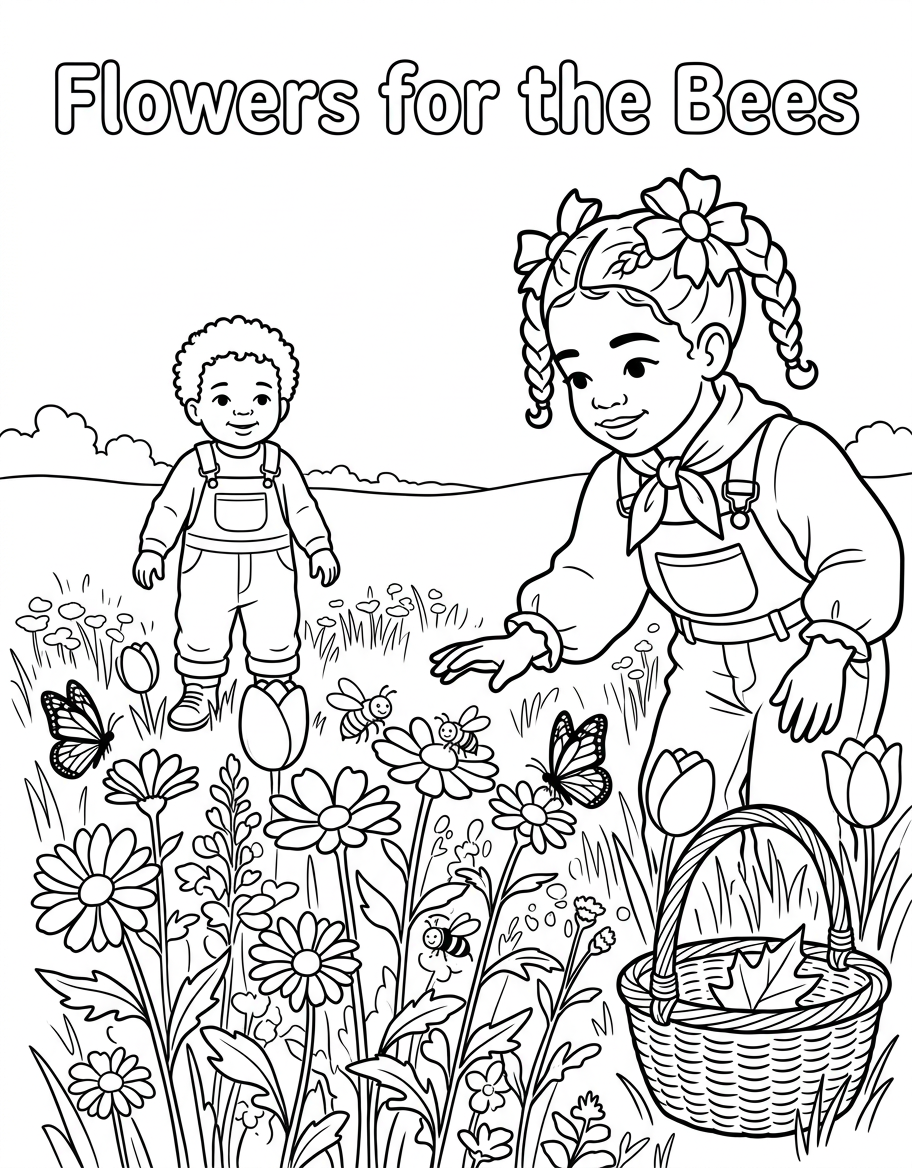
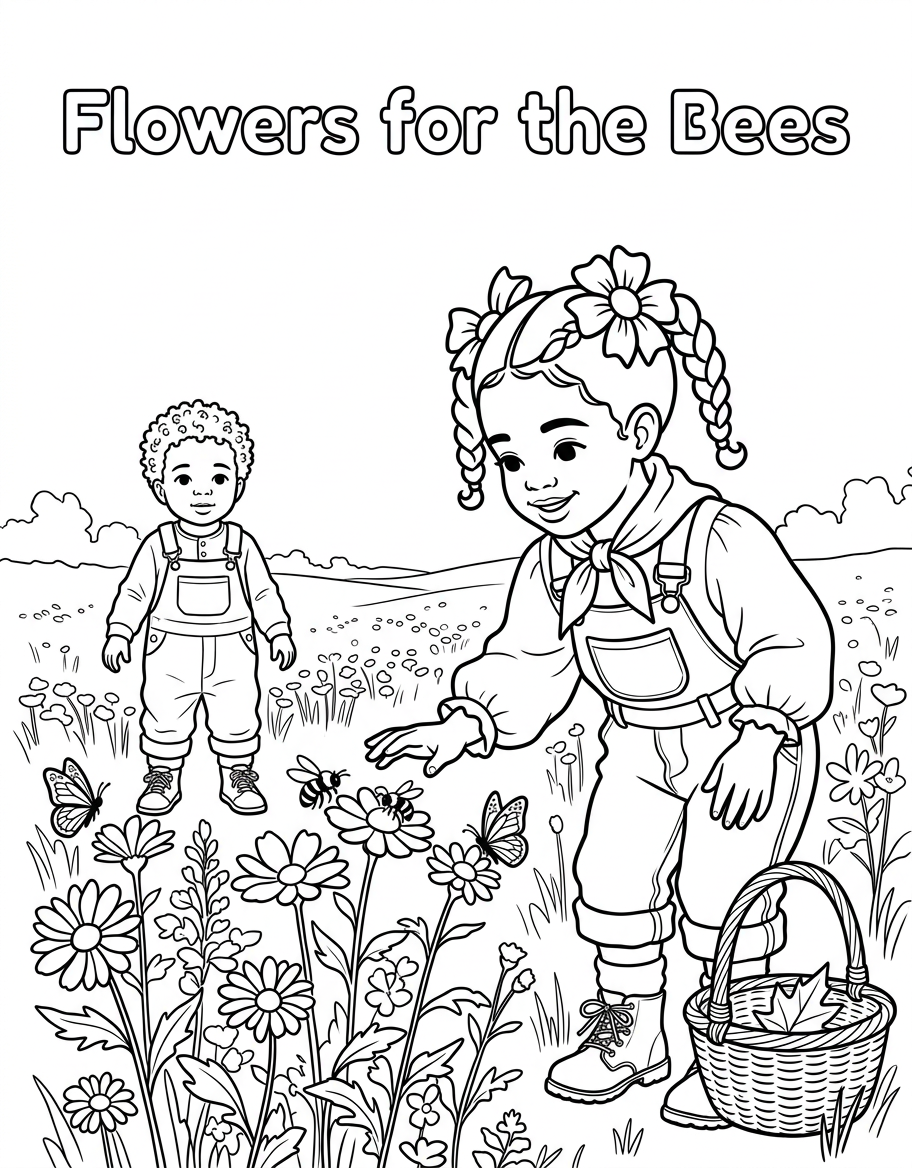
PRODUCT LINE COMPLETE: coloring 13/13 + wall art 6/6

diff --git a/docs/product-line.md b/docs/product-line.md
@@ -16,14 +16,14 @@ Each page converts its source spread's composition (spread attached as reference
 | `page-02-our-first-treasure.png` | Our First Treasure | Unit 2 | ✅ approved (was style sample) |
 | `page-03-acorns-for-the-squirrel.png` | Acorns for the Squirrel | Unit 3 | ✅ approved |
 | `page-04-feather-for-the-bird.png` | A Feather for the Bird | Unit 5 | ✅ approved |
-| `page-05-flowers-for-the-bees.png` | Flowers for the Bees | Unit 6 | ❌ regen: filled-black butterfly |
+| `page-05-flowers-for-the-bees.png` | Flowers for the Bees | Unit 6 | ✅ approved |
 | `page-06-care-for-the-lamb.png` | Care for the Lamb | Unit 8 | ✅ approved |
 | `page-07-resting-under-the-oak.png` | Resting Under the Oak | Unit 9 | ✅ approved |
 | `page-08-whoosh.png` | Whoosh! | Unit 11 | ✅ approved |
 | `page-09-bridge-for-the-ants.png` | A Bridge for the Ants | Unit 12 | ✅ approved |
 | `page-10-five-blessings-shared.png` | Five Blessings Shared | Unit 13 | ✅ approved |
-| `page-11-coming-home.png` | Coming Home | Unit 14 | ⬜ needs U14 first |
-| `page-12-hearts-were-full.png` | Hearts Were Full | Unit 15 | ⬜ |
+| `page-11-coming-home.png` | Coming Home | Unit 14 | ✅ approved |
+| `page-12-hearts-were-full.png` | Hearts Were Full | Unit 15 | ✅ approved |
 
 Dropped as quiet/transitional: Units 4, 7, 10.
 
@@ -34,9 +34,9 @@ Verse text verbatim + heart + citation, upper-right open space.
 
 | # | File | Subject | Status |
 |---|---|---|---|
-| 1 | `wall-art/print-01-amara.png` | Amara, pumpkin basket portrait | ⬜ |
-| 2 | `wall-art/print-02-micah.png` | Micah, pumpkin basket portrait | ⬜ |
-| 3 | `wall-art/print-03-siblings-meadow.png` | Amara & Micah, meadow, no verse | ⬜ |
+| 1 | `wall-art/print-01-amara.png` | Amara, pumpkin basket portrait | ✅ approved | |
+| 2 | `wall-art/print-02-micah.png` | Micah, pumpkin basket portrait | ✅ approved | |
+| 3 | `wall-art/print-03-siblings-meadow.png` | Amara & Micah, meadow, no verse | ✅ approved | |
 | 4 | `assets/amara/amara-scripture-james-1-17.png` | James 1:17 (existing) | ✅ exists |
 | 5 | `assets/micah/micah-scripture-philippians-4-13.png` | Philippians 4:13 (existing) | ✅ exists |
 | 6 | `wall-art/print-06-psalm-107-1.png` | Psalm 107:1 thankfulness verse | ✅ approved (was style sample) |

diff --git a/README.md b/README.md
@@ -43,5 +43,4 @@ See `docs/canon-decisions.md`.
 - [x] Batch 3: all 15 spreads approved — MAIN BOOK COMPLETE
 - [ ] Final QA + print layout
 - [x] Coloring book batch 1: 11/13 approved (cover + 10 pages)
-- [ ] Coloring book batch 2: p05 regen + p11/p12 + wall art 01-03
-- [ ] Wall art: 6-print set (p06 approved, 2 exist in assets/, 3 to go)
+- [x] Final batch: p05/p11/p12 + wall art 01-03 — PRODUCT LINE COMPLETE (15 book + 13 coloring + 6 wall art)
